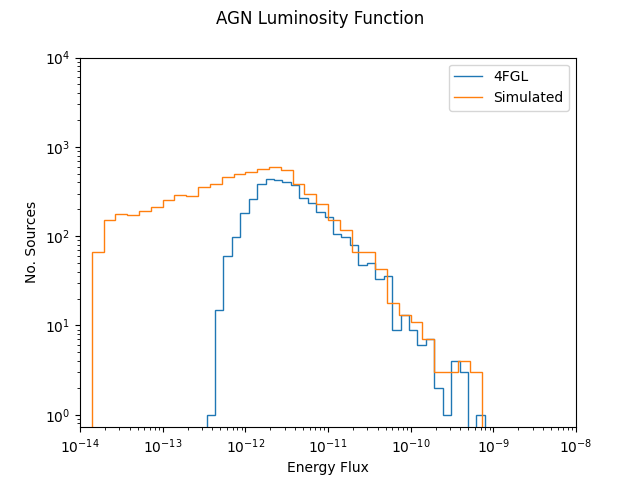
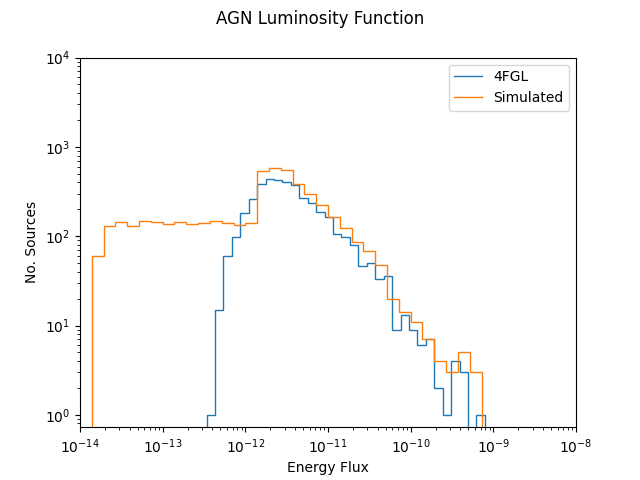
Created a verification function to check simulated parameter correlation - somthing is not correct, so will need to fix.

diff --git a/code/data_simulation/create_mock_catalogs.py b/code/data_simulation/create_mock_catalogs.py
@@ -24,7 +24,7 @@ from read_write_functions import catalog_data_preparation, save_catalog
 from source_generation.agn_generation import generate_mock_agn_catalog
 from source_generation.pulsar_generation import generate_mock_pulsar_catalog
 import time
-from verification.visualisation import plot_luminosity_function, plot_spatial_distribution
+from verification.visualisation import plot_correlation, plot_luminosity_function, plot_spatial_distribution
 
 
 def analysis(agn_rows, pulsar_rows, directory="./plots/analysis"):
@@ -159,12 +159,12 @@ def create_catalog(fermi_catalog: str, data_4fgl: tuple, threshold, verify: bool
 
     if verify:
         # Verify realism and correctness of generated gamma-ray sources
-        verification(simulated_agn, simulated_pulsar)
+        verification(simulated_agn, simulated_pulsar, catalog_4fgl=fermi_catalog)
 
     return simulated_agn, simulated_pulsar, simulation_time
 
 
-def verification(simulated_agns, simulated_pulsars, directory="./plots/verification"):
+def verification(simulated_agns, simulated_pulsars, catalog_4fgl: str, directory="./plots/verification"):
     # Verify simulated data realism and correctness
 
     # Create directory to store results
@@ -172,12 +172,20 @@ def verification(simulated_agns, simulated_pulsars, directory="./plots/verificat
 
     # SPECTRAL PARAMETERS
 
+    # # Compare the luminosity function of the simulated AGNs with that of those in the 4FGL
+    # plot_luminosity_function("/Volumes/T7/data/catalog/4FGL_DR4.fit", simulated_agns[:, 4],
+    #                          directory=directory, source_type="AGN")
+    #
+    # # Compare the luminosity function of the simulated pulsars with that of those in the 4FGL
+    # plot_luminosity_function("/Volumes/T7/data/catalog/4FGL_DR4.fit", simulated_pulsars[:, 5],
+    #                          directory=directory, source_type="Pulsar")
+
     # Compare the luminosity function of the simulated AGNs with that of those in the 4FGL
-    plot_luminosity_function("/Volumes/T7/data/catalog/4FGL_DR4.fit", simulated_agns[:, 4],
+    plot_luminosity_function(catalog_4fgl, simulated_agns[:, 4],
                              directory=directory, source_type="AGN")
 
     # Compare the luminosity function of the simulated pulsars with that of those in the 4FGL
-    plot_luminosity_function("/Volumes/T7/data/catalog/4FGL_DR4.fit", simulated_pulsars[:, 5],
+    plot_luminosity_function(catalog_4fgl, simulated_pulsars[:, 5],
                              directory=directory, source_type="Pulsar")
 
     # SPATIAL DISTRIBUTION
@@ -189,6 +197,32 @@ def verification(simulated_agns, simulated_pulsars, directory="./plots/verificat
     # Plot simulated pulsar spatial distributions
     plot_spatial_distribution(simulated_pulsars[:, 6], simulated_pulsars[:, 7], source_type='Pulsar',
                               directory=directory)
+
+    ## CORRELATION ANALYSIS
+
+    agn_correlated_variables = [("Pivot_Energy", "LP_Flux_Density"), ("Pivot_Energy", "LP_Index")]
+    agn_correlated_variables_indices = [(0, 1), (0, 2)]
+
+    pulsar_correlated_variables = [("Pivot_Energy", "PLEC_Flux_Density")]
+    pulsar_correlated_variables_indices = [(0, 1)]
+
+    for a in range(len(agn_correlated_variables)):
+
+        variable_names = agn_correlated_variables[a]
+        indices = agn_correlated_variables_indices[a]
+
+        plot_correlation(catalog_4fgl, var1_name=variable_names[0], var2_name=variable_names[1],
+                         simulated_var1=simulated_agns[:, indices[0]], simulated_var2=simulated_agns[:, indices[1]],
+                         source_type="AGN", directory=directory)
+
+    for p in range(len(pulsar_correlated_variables)):
+
+        variable_names = pulsar_correlated_variables[p]
+        indices = pulsar_correlated_variables_indices[p]
+
+        plot_correlation(catalog_4fgl, var1_name=variable_names[0], var2_name=variable_names[1],
+                         simulated_var1=simulated_pulsars[:, indices[0]],
+                         simulated_var2=simulated_pulsars[:, indices[1]], source_type="Pulsar", directory=directory)
 
 
 # MAIN PROGRAM
@@ -248,7 +282,7 @@ if __name__ == "__main__":
         print("ANALYSIS: ", end='')
 
         # Analyse parameters, their distributions, and their correlations
-        analysis(agn_4fgl, pulsar_4fgl)
+        analysis(agn_4fgl.copy(), pulsar_4fgl.copy())
 
         print("DONE")
 
@@ -269,7 +303,8 @@ if __name__ == "__main__":
             else:
                 run_verify = False
 
-        new_agns, new_pulsars, generation_time = create_catalog(fermi_catalog=file, data_4fgl=(agn_4fgl, pulsar_4fgl),
+        new_agns, new_pulsars, generation_time = create_catalog(fermi_catalog=file, data_4fgl=(agn_4fgl.copy(),
+                                                                                               pulsar_4fgl.copy()),
                                                                 threshold=source_detection_threshold, verify=run_verify)
 
         total_time += generation_time

diff --git a/code/data_simulation/verification/visualisation.py b/code/data_simulation/verification/visualisation.py
@@ -6,6 +6,86 @@ import numpy as np
 import numpy.typing as npt
 
 
+axis_labels = {"LP_Flux_Density": "Differential Flux Density",
+               "Pivot_Energy": "Pivot Energy", "LP_Index": "Spectral Slope",
+               "LP_beta": "Spectral Curvature", "PLEC_IndexS": "Spectral Slope",
+               "PLEC_Flux_Density": "Differential Flux Density", "PLEC_Exp_Index": "Exponential Index",
+               "PLEC_ExpfactorS": "Exponential Factor", "GLAT": "Latitude"}
+
+# Used for mathematical descriptions - gives mathematical notation equivalent to variable
+mathematical_notation = {"Pivot_Energy": "$E_0$", "LP_Flux_Density": "$F_0$", "LP_Index": "$\\alpha$",
+                         "LP_beta": "$\\beta$", "PLEC_Flux_Density": "$F_0$", "PLEC_IndexS": "$\Gamma$",
+                         "PLEC_Exp_Index": "$b$", "PLEC_ExpfactorS": "$a$", "GLAT": "Latitude"}
+
+# Used for indicating units
+units = {"LP_Flux_Density": "[ph cm$^{-2}$ MeV$^{-1}$ s$^{-1}$", "Pivot_Energy": "[MeV]", "LP_Index": "",
+         "LP_beta": "",
+         "PLEC_IndexS": "", "PLEC_Flux_Density": "[ph cm$^{-2}$ MeV$^{-1}$ s$^{-1}$", "PLEC_Exp_Index": "",
+         "PLEC_ExpfactorS": "", "GLAT": "[rad]"}
+
+
+def plot_correlation(catalog_4fgl: str, var1_name: str, var2_name: str, simulated_var1, simulated_var2,
+                     source_type: str, directory: str) -> None:
+
+    # VERIFY THAT THE SIMULATED CATALOG'S PARAMETERS HAVE SIMILAR CORRELATION TO THE ORIGINAL CATALOG
+
+    # Read 4FGL Catalog
+    catalog = QTable.read(catalog_4fgl, format='fits', hdu=1)["CLASS1", var1_name, var2_name]
+
+    # Reformat columns
+    catalog['CLASS1'] = np.asarray([k.decode('utf-8').strip().lower() for k in catalog['CLASS1'].value.filled('-')])
+
+    if source_type == "AGN":
+
+        # Select all rows that describe AGN
+        agn_mask = np.isin(catalog['CLASS1'].data, np.array(['bcu', 'sey', 'ssrq', 'bll', 'fsrq', 'rdg', 'nlsy1', 'agn']))
+        sources_4fgl = catalog[agn_mask]
+
+    else:
+
+        # Select all rows that describe pulsars
+        pulsar_mask = (catalog["CLASS1"] == "psr")
+        sources_4fgl = catalog[pulsar_mask]
+
+    plt.rcParams["figure.figsize"] = (16, 8)
+
+    fig, ax = plt.subplots(1, 2)
+
+    # Plot original correlation
+
+    original_var1, original_var2 = sources_4fgl[var1_name].value, sources_4fgl[var2_name].value
+
+    ax[0].scatter(original_var1, original_var2, label="4FGL", color='blue', alpha=0.6)
+    ax[1].scatter(np.log(original_var1), np.log(original_var2), label="4FGL", color='blue', alpha=0.6)
+
+    # Plot simulated data's correlation
+
+    ax[0].scatter(simulated_var1, simulated_var2, color='orange', alpha=0.6)
+    ax[1].scatter(np.log(simulated_var1), np.log(simulated_var2), color='orange', alpha=0.6)
+
+    # Formatting
+
+    fig.suptitle("Comparison of Correlation between 4FGL and Simulated {} {} and {}".format(source_type,
+                                                                                            axis_labels[var2_name],
+                                                                                            axis_labels[var1_name]))
+
+    ax[0].set_title("{} against {}".format(mathematical_notation[var2_name], mathematical_notation[var1_name]))
+    ax[1].set_title("log {} against log {}".format(mathematical_notation[var2_name], mathematical_notation[var1_name]))
+
+    ax[0].set_xlabel("{} {}".format(mathematical_notation[var1_name], units[var1_name]))
+    ax[0].set_ylabel("{} {}".format(mathematical_notation[var2_name], units[var2_name]))
+
+    ax[1].set_xlabel("log {}".format(mathematical_notation[var1_name]))
+    ax[1].set_ylabel("log {}".format(mathematical_notation[var2_name]))
+
+    ax[0].legend()
+    ax[1].legend()
+
+    fig.savefig(directory + "/correlation_between_{}_{}_and_{}.png".format(source_type.lower(), var1_name, var2_name))
+
+    plt.close()
+
+
 def plot_luminosity_function(catalog: str, energy_fluxes: npt.NDArray[np.float64], directory: str,
                              source_type: str) -> None:
     # Data Processing

diff --git a/code/data_simulation/source_generation/pulsar_spectral_parameters.py b/code/data_simulation/source_generation/pulsar_spectral_parameters.py
@@ -4,6 +4,8 @@ from scipy.integrate import quad
 import warnings
 
 
+poly = np.polynomial.Polynomial([-26.32681683834449, -1.2813737892102322, -1.888182538356475, -2.147009478562273])
+
 # def energy_flux_pulsar(pivot_energy, flux_density, spectral_slope, exponential_index, exponential_factor):
 
 def energy_flux_pulsar(pivot_energy, flux_density, spectral_slope, exponential_index, exponential_factor,
@@ -33,9 +35,46 @@ def integral_photon_flux_pulsar(pivot_energy, flux_density, spectral_slope, expo
         #                                                         exponential_factor, exponential_index))[0]
 
         energy = quad(pulsar_photon_flux, min_energy, max_energy, args=(flux_density, pivot_energy, spectral_slope,
-                                                                exponential_factor, exponential_index))[0]
+                                                                        exponential_factor, exponential_index))[0]
 
     return energy
+
+
+def pulsar_flux_density(pivot_energies, noise_std=0.8723404255319149):
+
+    log_pivot_energies = np.log(pivot_energies)
+
+    poly_p = np.polynomial.Polynomial([-26.32681683834449, -1.2813737892102322, -1.888182538356475, -2.147009478562273])
+
+    # ['a : -2.147009478562273', 'b : -1.888182538356475', 'c : -1.2813737892102322', 'd : -26.32681683834449']
+
+    log_flux_densities = poly_p(log_pivot_energies)
+
+    # import matplotlib.pyplot as plt
+
+    # plt.close()
+    #
+    # plt.plot(np.linspace(5, 9, 100), poly_p(np.linspace(5, 9, 100)))
+    #
+    # plt.savefig("testing.png")
+    #
+    # plt.close()
+
+    # Calculate number of noise elements to generate and create noise
+    size = np.atleast_1d(log_flux_densities).shape
+    noise = np.random.normal(loc=0, scale=noise_std, size=size)
+
+    # Add noise
+    log_flux_densities += noise
+
+    flux_densities = np.exp(log_flux_densities)
+
+    return flux_densities
+
+
+
+
+
 
 
 def s1_agn(pivot_energy, flux_density, spectral_slope, curvature):

diff --git a/code/data_simulation/source_generation/pulsar_generation.py b/code/data_simulation/source_generation/pulsar_generation.py
@@ -10,7 +10,7 @@ from astropy.table import QTable
 from astropy import units as u
 from math import floor
 import numpy as np
-from . pulsar_spectral_parameters import energy_flux_pulsar
+from . pulsar_spectral_parameters import energy_flux_pulsar, pulsar_flux_density
 from . utils import split_normal
 from scipy.optimize import curve_fit
 from scipy.stats import Mixture, Normal, cauchy
@@ -42,8 +42,11 @@ def pulsar_generator(pulsar_stats, energy_flux_low, energy_flux_high, cauchy_par
         # However, the distribution of pivot energies in the 4FGL follows log-normal more precise
         pivot_energy = np.random.lognormal(mean=mean_log_pivot_energy_pulsars, sigma=std_log_pivot_energy_pulsars)
 
-        # Generate new flux densities - log-normal for flux densities
+        # Generate new flux densities - log-normal for flux densities was initially used then used cubic correlation
+        # of log pivot energy and log flux density
         flux_density = np.random.lognormal(mean=mean_log_flux_density_pulsars, sigma=std_log_flux_density_pulsars)
+
+        # flux_density = pulsar_flux_density(pivot_energy)[0]
 
         # Gaussian recommended in ID8 - AT THE MOMENT - may change to log-normal
 
@@ -234,6 +237,8 @@ def generate_mock_pulsar_catalog(catalog: str, pulsars, detection_threshold):
 
     while (actual_counts[0] < target_counts[0]) and np.any(np.less(actual_counts[target_peak:],
                                                                    target_counts[target_peak:])):
+
+        print("PULSAR: {}".format(len(parameters)))
 
         # Due to uncomplimentary functionality - need max of intervals[:-1] - see reference to Digitize Error
         new_source = pulsar_generator(pulsar_stats, energy_flux_low=np.min(target_bin_intervals),

diff --git a/code/data_simulation/source_generation/agn_generation.py b/code/data_simulation/source_generation/agn_generation.py
@@ -187,11 +187,15 @@ def generate_mock_agn_catalog(catalog, agn_data, detection_threshold=np.float64(
             actual_counts[idx] += 1
 
     # CHECK SIMULATED FLUX DENSITIES AND PIVOT ENERGIES HAVE SAME CORRELATION AS IN 4FGL
-    # plt.title('Simulated $F_0$ against $E_0$')
-    # plt.xlabel('log $E_0$')
-    # plt.ylabel('log $F_{0, AGN}$')
-    # plt.scatter(np.log(parameters[:, 0]), np.log(parameters[:, 1]), s=2)
-    # plt.show()
+    # import matplotlib.pyplot as plt
+    #
+    # fig2, ax2 = plt.subplots()
+    #
+    # fig2.suptitle('Simulated $F_0$ against $E_0$')
+    # ax2.set_xlabel('log $E_0$')
+    # ax2.set_ylabel('log $F_{0, AGN}$')
+    # ax2.scatter(np.log(np.array(parameters)[:, 0]), np.log(np.array(parameters)[:, 1]), s=2)
+    # fig2.savefig("agnf0againste0.png")
     #
     # # CHECK SIMULATED PIVOT ENERGIES AND SPECTRAL INDICES (ALPHAS) HAVE SAME CORRELATION AS IN 4FGL
     # plt.title('Simulated $\\alpha$ against $E_0$')

diff --git a/code/data_simulation/analysis/visualisation.py b/code/data_simulation/analysis/visualisation.py
@@ -99,6 +99,8 @@ def plot_fitting_correlated_variable_dependency(var1, var2, source_type: str, di
 
         idx = degree - 1
 
+        # polynomial = np.polynomial.Polynomial.fit(log_var1, log_var2, deg=degree)
+
         polynomial = np.polynomial.Polynomial.fit(log_var1, log_var2, deg=degree)
 
         ax[0].plot(x_values, np.exp(polynomial(log_x_values)), color=colours[idx], label="Log {}".format(labels[idx]),

diff --git a/code/data_simulation/source_generation/agn_spectral_parameters.py b/code/data_simulation/source_generation/agn_spectral_parameters.py
@@ -5,7 +5,6 @@ import warnings
 
 # polynomial with degree 2 relating pivot energies and flux densities (coefficients below are c, b, a) such that
 # ax^2 + bx + c = 0
-# poly = np.polynomial.Polynomial([-21.159501476671274, -2.8553356136745753, 0.10975452653160912])
 poly = np.polynomial.Polynomial([-30.484182252126633, -6.779223799814874, 0.7112492265517346])
 
 

diff --git a/code/data_simulation/delete_after_run.py b/code/data_simulation/delete_after_run.py
@@ -1,0 +1,11 @@
+import numpy as np
+
+import matplotlib.pyplot as plt
+
+poly_p = np.polynomial.Polynomial([-26.32681683834449, -1.2813737892102322, -1.888182538356475, -2.147009478562273])
+
+plt.plot(np.linspace(5, 9, 100), poly_p(np.linspace(5, 9, 100)))
+
+plt.savefig("testing.png")
+
+plt.close()
